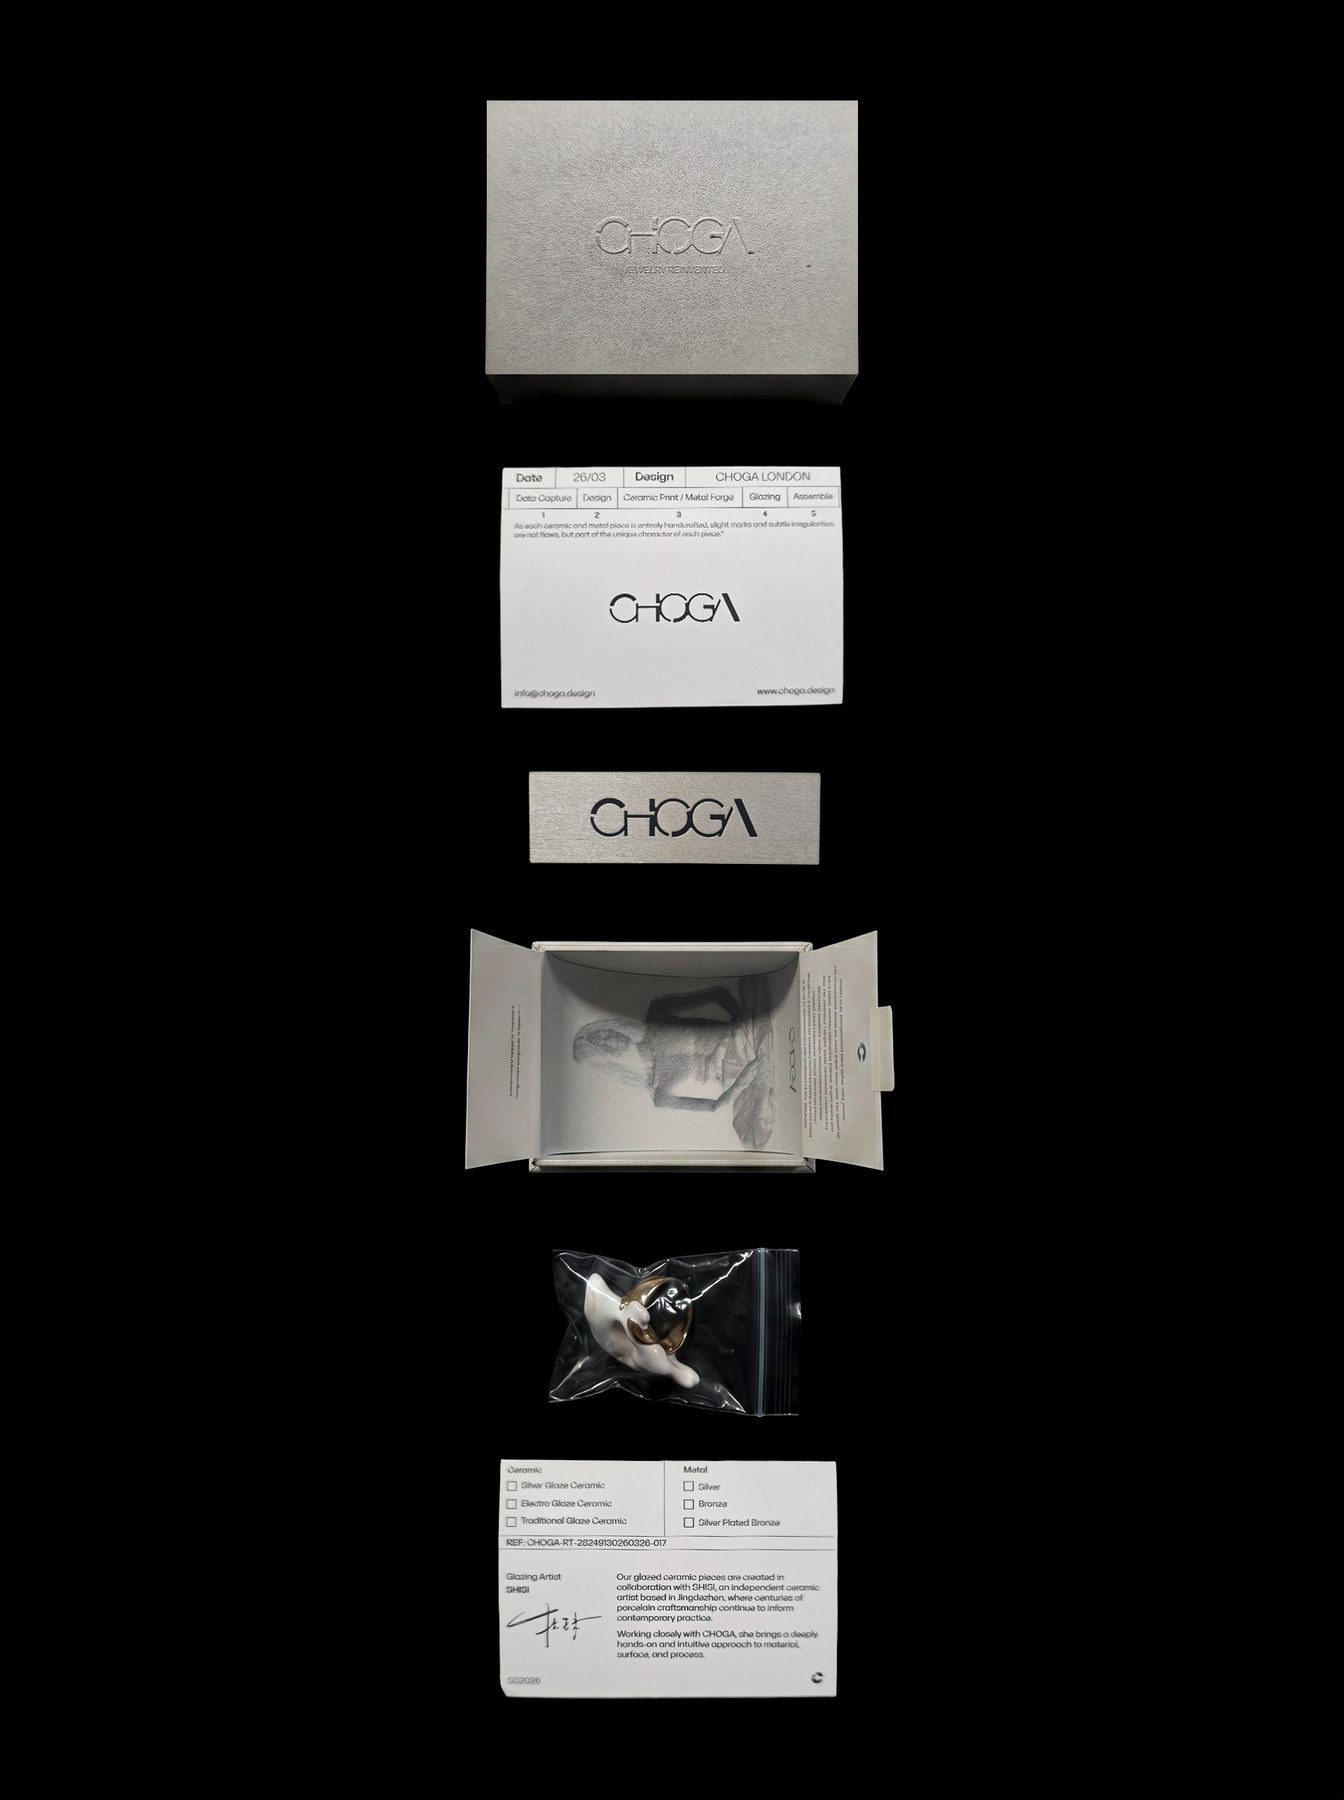
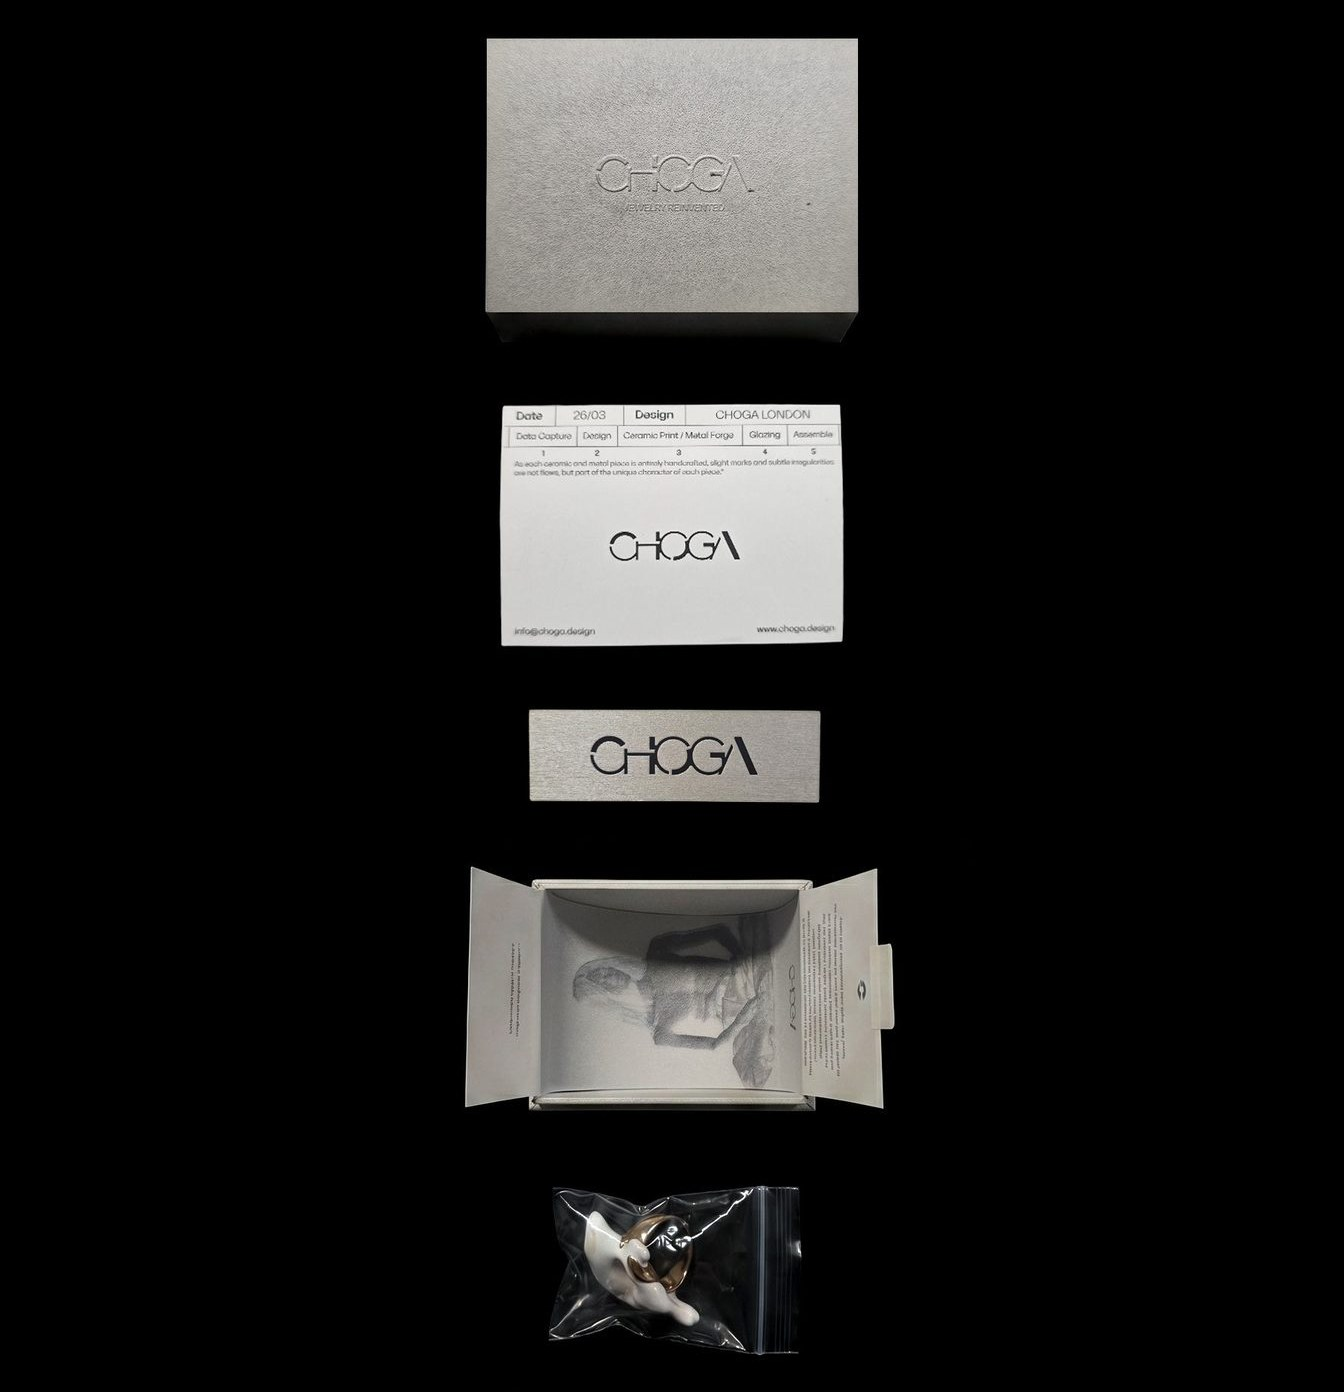
Tidy the public site after a pre-launch check
- Crop the CHOGA packaging photo above the bottom card, which showed a
  product reference code and the glazing artist's name and signature.
- Say the CHOGA pieces are "shown" on the hand and ear, not "photographed".
- Remove editor notes from the page's script comments.
- Reliquary: drop a sentence that repeated the image caption, and mark a
  short last chapter as current once the sheet is scrolled to its foot.

Claude-Session: https://claude.ai/code/session_01E42VZHNutknAC92LDudkom

Changed region(s): [[0.3438, 0.0, 0.6875, 0.9885]]

diff --git a/index.html b/index.html
@@ -546,11 +546,8 @@ footer .f3 { grid-column: 10 / span 3; justify-self: end; }
 <div class="idle" id="idle" aria-hidden="true"><div class="bouncer" id="bouncer"></div><span class="idle-hint mono m">Move to continue</span></div>
 
 <script>
-// Works. The Geomorphology Research Centre (UG6, final PDF title Time Magnificents!) is shown as two works at the user’s request (2026-11-09): Living on the Dunes (DUN, the lead) and Eroding the Cliff (CLF); both draw on img/ug6 and img/ug6p. Earlier 2019–2020 portfolio projects are not shown.
+// Works, in the order the grid shows them.
 // imgs: [file, width, height, alt]; files live in img/<dir>/, 960px covers in img/cover/<code>.jpg.
-// omii is a 2026 team product project (RCA × Imperial); it follows the lead work. CHOGA (2026, a London
-// jewellery studio: series, ceramic production, the Future Archaeology pop-up invitation, the shop) follows omii,
-// then Reliquary (CHOGA × Wedge installation, SS 2025, from the CHOGA brand book).
 // op = crop focus of the cover in its frame (object-position). The lead work also has a full-frame wide source
 // for its lead tile (lop = its crop focus there); in a 2:1 frame op 33% repeats the curated cover crop.
 // A long-form work adds intro, meta, hero, chapters and closing. A chapter's imgs is its flow: a number
@@ -867,13 +864,13 @@ const WORKS = [
         facts: [["Name", "CHOGA, Tibetan for “ritual”"], ["Based", "London"], ["Method", "Eastern philosophy as process, not motif"]],
         imgs: [
           { f: [["choga/bowl", 1344, 1800, "A bowl mended with gold seams, holding a ceramic fragment.", "Two hands in black sleeves holding a silver bowl with gold seams and a white ceramic piece inside"],
-                ["choga/packaging", 1344, 1800, "The packaging, laid out.", "A white box, cards and a wrapped piece laid out in a column on black"]] },
+                ["choga/packaging", 1344, 1392, "The packaging, laid out.", "A grey box, a card, a metal name plate, the open box and a wrapped ring laid out in a column on black"]] },
           1,
         ] },
       { n: "02", title: "Three series",
         text: [
           "The 2026 collection has three series, each named in Tibetan. NORBU means “jewel”: something cherished, luminous and enduring. RI SGRA means “echo”, an inner vibration and a perceptive presence. ZLABA means “moon”, a symbol of softness, rhythm and quiet light.",
-          "The series also divide by material. RI SGRA is pure ceramic and ZLABA is pure metal, while NORBU joins a ceramic body glazed white, pearl or silver to a band of bronze or silver-plated bronze. The pieces are photographed on the hand and the ear, in black and in shadow.",
+          "The series also divide by material. RI SGRA is pure ceramic and ZLABA is pure metal, while NORBU joins a ceramic body glazed white, pearl or silver to a band of bronze or silver-plated bronze. The pieces are shown on the hand and the ear, in black and in shadow.",
         ],
         facts: [["NORBU, “jewel”", "Rings R01, R02, earring ER01: ceramic and metal"], ["RI SGRA, “echo”", "Ring R01: white ceramic"], ["ZLABA, “moon”", "Ring R01, bracelet BC01: bronze"]],
         imgs: [
@@ -955,7 +952,7 @@ const WORKS = [
       { n: "01", title: "A vessel of ritual",
         text: [
           "A reliquary keeps what is precious. Here the precious things are jewellery, and the brand book gives each of the four materials part of the idea: “The porous sand murmurs of erosion and touch; the white ceramic gleams with quiet purity; the aluminium glints with precision; the carved wood carries the warmth of time.”",
-          "In the same text, “their geometry gestures toward the delicate tension between preservation and disappearance, between ornament and offering.” Seen from above, rings and small coloured pieces rest in mirror-finish cradles and on white and black forms, held rather than displayed.",
+          "In the same text, “their geometry gestures toward the delicate tension between preservation and disappearance, between ornament and offering.”",
         ],
         imgs: [
           { w: 9, f: [["reliquary/detail", 1070, 475, "From above: rings and small coloured pieces held in mirror-finish cradles and on white and black forms.", "Top view on oak leaves and twigs: a mirror-finish silver cradle holding a ribbed silver ring, a second silver cradle with a small silver cylinder, two matte white forms carrying small glossy red, teal and green pieces, black grainy forms with a dark ribbed ring resting on one, and the dark glossy ribbed column behind"]] },
@@ -1264,6 +1261,8 @@ function syncChap() {
   const line = sheet.querySelector(".s-bar").getBoundingClientRect().bottom + innerHeight * 0.25;
   let on = null;
   for (const c of chs) { if (c.firstElementChild.getBoundingClientRect().top <= line) on = c; else break; }
+  // A short last chapter may never reach the line: at the foot of the sheet it is the current one.
+  if (chs.length && sheet.scrollTop >= sheet.scrollHeight - sheet.clientHeight - 2) on = chs[chs.length - 1];
   if (on === chOn) return;
   const was = chOn; chOn = on;
   $("s-chap").classList.toggle("on", !!on);
